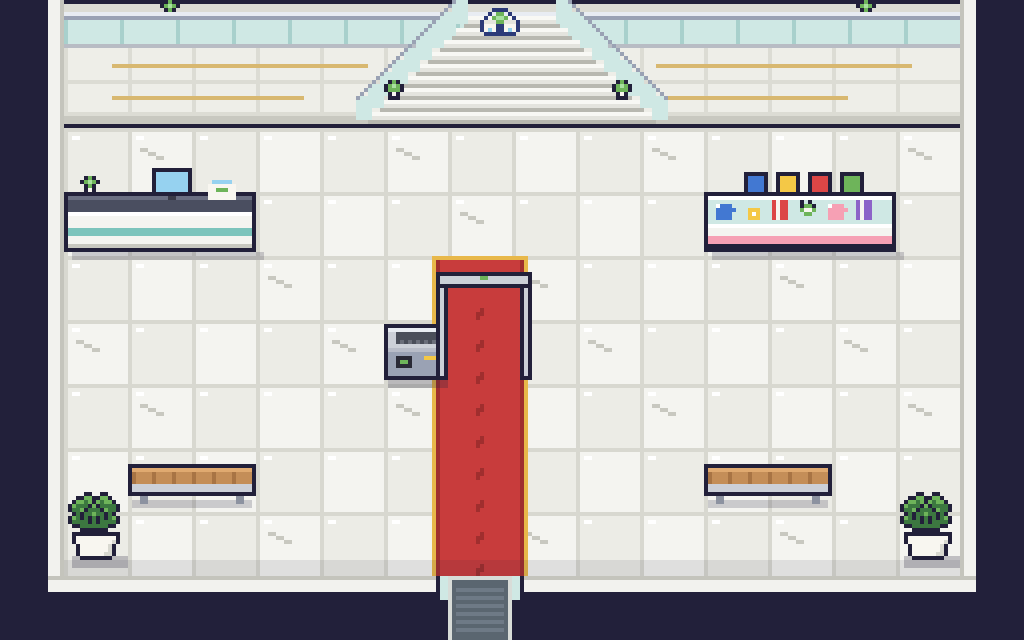
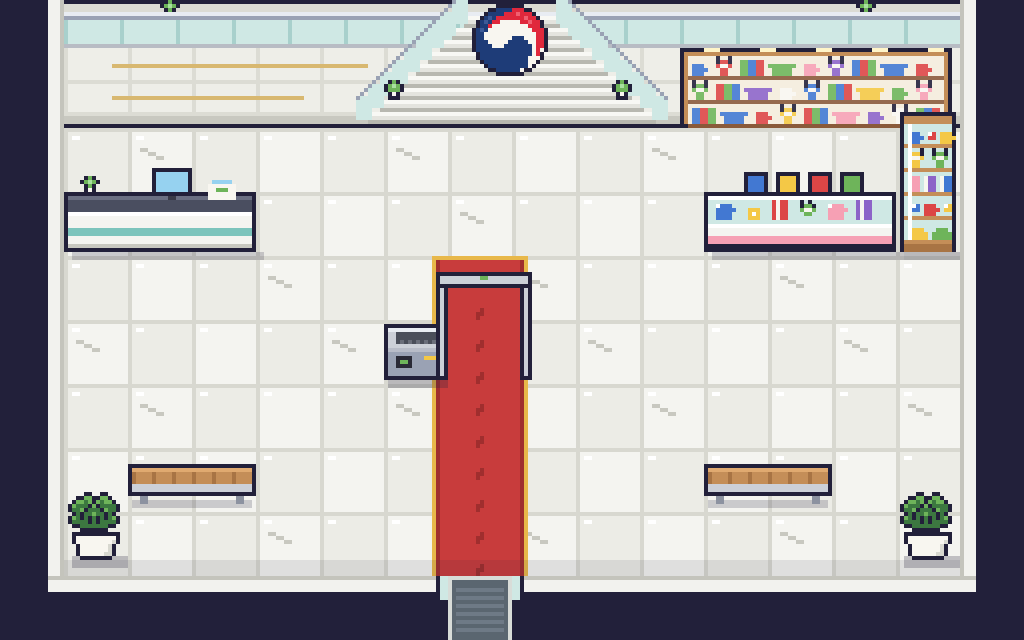
교육부 초안: 정부 상징 도트, 기념품 벽 진열장·세로 진열대 추가
Claude-Session: https://claude.ai/code/session_01R4Xdu4DQAYWSL2VUyUVs3v

Changed region(s): [[0.6562, 0.0625, 0.9375, 0.4062], [0.4375, 0.0, 0.5312, 0.125]]

diff --git a/tools/room_art.py b/tools/room_art.py
@@ -1997,7 +1997,7 @@ def moe():
     for x in range(16, 240, 16):                                          # 대리석 판 줄눈
         cv.vline(x, 12, 17, '#dcdcd4')
     cv.hline(16, 20, 224, '#dcdcd4')
-    for x0 in (24, 160):                                                  # 금색 가로 장식
+    for x0 in (24,):                                                      # 금색 가로 장식
         cv.hline(x0 + 4, 16, 64, '#d8b870'); cv.hline(x0 + 4, 24, 48, '#d8b870')
     cv.rect(16, 28, 224, 3, '#c8c8c0'); cv.hline(16, 28, 224, '#dcdcd4')
     cv.hline(16, 31, 224, K)
@@ -2023,16 +2023,56 @@ def moe():
     # 계단참 화분
     for x, y in ((96, 20), (153, 20)):
         cv.sprite(x, y, ['.kgk.', 'kgGgk', 'kgggk', '.kwk.', '.kkk.'], {'k': K, 'g': '#6eb45a', 'G': '#a8e0a0', 'w': '#f8f6f0'})
-    # 상징 마크 (책과 새싹)
-    cv.sprite(120, 2, [
-        '...kkkk...',
-        '..k.gg.k..',
-        '.k.gGGg.k.',
-        'k...gg...k',
-        'kwwwkkwwwk',
-        'kwbwkkwbwk',
-        '.kkkkkkkk.',
-    ], {'k': '#2c3a78', 'g': '#6eb45a', 'G': '#a8e0a0', 'w': '#f8f6f0', 'b': '#96d2f0'})
+    # 정부 상징 (태극 문양) — 사용자가 준 그림을 17x17 도트로 옮김, 흰 원판 위
+    cv.sprite(118, 1, [
+        '......kkkkkkk......',
+        '....kkbbbbrrrkk....',
+        '...kbbbbrrrrrrrk...',
+        '..kbbbrrrrrrrrrrk..',
+        '.kbbbrrwwwwwrrrrrk.',
+        '.kbbrwwwwwwwwwrrrk.',
+        'kbbbwwwwwwwwwwwrrrk',
+        'kbbwwwwwwwwwwwwwrrk',
+        'kbbwwwwwwwbbbwwwrrk',
+        'kbbbwwwwwbbbbbwwrrk',
+        'kbbbbwwwbbbbbbbwrrk',
+        'kbbbbbbbbbbbbbbwrwk',
+        '.kbbbbbbbbbbbbbwrk.',
+        '.kbbbbbbbbbbbbwwwk.',
+        '..kbbbbbbbbbbbwwk..',
+        '...kbbbbbbbbbbwk...',
+        '....kkbbbbbbwkk....',
+        '......kkkkkkk......',
+    ], {'k': K, 'w': '#f8f6f0', 'b': '#1e3c78', 'r': '#e0283c'})
+    cv.p(122, 4, '#3c5a98'); cv.p(121, 5, '#3c5a98'); cv.p(120, 7, '#3c5a98')     # 남색 윤기
+    cv.p(129, 3, '#f06070'); cv.p(131, 4, '#f06070'); cv.p(132, 5, '#f06070')     # 빨강 윤기
+
+    # 기념품 벽 진열장 (기념품 매대 뒤, 11~14칸 벽)
+    wx0, wx1 = 170, 238
+    cv.rect(wx0, 12, wx1 - wx0, 20, K)
+    cv.rect(wx0 + 1, 13, wx1 - wx0 - 2, 18, '#c48e58')
+    for row, sy in enumerate((14, 20, 26)):
+        cv.rect(wx0 + 2, sy, wx1 - wx0 - 4, 5, '#f4ecdc')
+        cv.hline(wx0 + 2, sy + 5, wx1 - wx0 - 4, '#8a5a3a')
+        q = 0
+        ix = wx0 + 3
+        while ix < wx1 - 6:
+            c = ['#4278d2', '#dc4646', '#f4c846', '#6eb45a', '#f6a0b4', '#8c64c8', '#f8f6f0'][(q + row * 3) % 7]
+            kind = (q + row) % 4
+            if kind == 0:      # 머그컵
+                cv.rect(ix, sy + 2, 3, 3, c); cv.p(ix + 3, sy + 3, c); ix += 6
+            elif kind == 1:    # 인형
+                cv.sprite(ix, sy, ['k..k', 'kggk', 'gwwg', '.gg.', '.gg.'], {'k': K, 'g': c, 'w': '#f8f6f0'}); ix += 6
+            elif kind == 2:    # 책 세 권
+                for b2 in range(3):
+                    cv.rect(ix + b2 * 2, sy + 1, 2, 4, ['#4278d2', '#dc4646', '#6eb45a'][(b2 + q) % 3])
+                ix += 8
+            else:              # 접은 티셔츠
+                cv.rect(ix, sy + 2, 5, 3, c); cv.rect(ix - 1, sy + 2, 1, 1, c); cv.rect(ix + 5, sy + 2, 1, 1, c); ix += 8
+            q += 1
+    cv.blend(wx0 + 2, 14, wx1 - wx0 - 4, 17, '#ffffff', 0.10)
+    for x in range(wx0 + 6, wx1 - 4, 14):                                 # 진열장 조명
+        cv.rect(x, 12, 4, 1, '#fff4c8')
 
     # ---------- 안내 데스크 (1~3, 3) ----------
     x0, y0, w = 16, 48, 48
@@ -2069,6 +2109,32 @@ def moe():
     # 매대 위 위쪽 진열 (기념품 직원 뒤)
     for q, c in enumerate(['#4278d2', '#f4c846', '#dc4646', '#6eb45a']):
         cv.box(x0 + 10 + q * 8, y0 - 5, 6, 6, c)
+
+    # 기념품 진열대: 오른쪽 (14, 2~3) 세로 유리장
+    x, y = 225, 32
+    cv.blend(x + 1, y + 31, 14, 2, K, 0.25)
+    cv.rect(x, y - 4, 14, 35, K)
+    cv.rect(x + 1, y - 3, 12, 2, '#c48e58')
+    shelf_items = [['mug', 'pin', 'mug'], ['doll', 'doll'], ['book', 'book', 'book'], ['pin', 'mug', 'pin'], ['cap', 'cap']]
+    for row, items in enumerate(shelf_items):
+        sy = y - 1 + row * 6
+        cv.rect(x + 1, sy, 12, 6, GLASS)
+        cv.hline(x + 1, sy + 5, 12, '#c48e58')
+        for q, kind in enumerate(items):
+            c = ['#4278d2', '#dc4646', '#f4c846', '#6eb45a', '#f6a0b4', '#8c64c8'][(row * 2 + q) % 6]
+            ix = x + 2 + q * (12 // len(items))
+            if kind == 'mug':
+                cv.rect(ix, sy + 2, 3, 3, c); cv.p(ix + 3, sy + 3, c)
+            elif kind == 'pin':
+                cv.rect(ix + 1, sy + 2, 2, 2, c); cv.p(ix + 1, sy + 2, '#ffffff')
+            elif kind == 'book':
+                cv.rect(ix, sy + 1, 3, 4, c); cv.vline(ix, sy + 1, 4, '#f8f6f0')
+            elif kind == 'doll':
+                cv.sprite(ix, sy, ['k..k', 'kggk', 'gwwg', '.gg.', '.gg.'], {'k': K, 'g': c, 'w': '#f8f6f0'})
+            else:
+                cv.rect(ix, sy + 3, 5, 2, c); cv.rect(ix + 1, sy + 2, 3, 1, c)
+    cv.vline(x + 2, y - 1, 29, '#ffffff')
+    cv.rect(x + 1, y + 29, 12, 2, '#a87444')
 
     # ---------- 검색대 (6,5): 엑스레이 상자 + 걸어서 지나가는 검색 문(7,5) ----------
     x, y = 96, 80

diff --git a/docs/room-drafts/README.md b/docs/room-drafts/README.md
@@ -51,9 +51,9 @@
 
 ```
 0 xxxxxxxxxxxxxxxx
-1 xWWWWWWWWWWWWWWx   벽: 유리 난간 2층 · 가운데 큰 계단 · 상징 마크 (글자 표지판 없음)
-2 xffffffffffffffx   안내 직원 (2,2)  기념품 직원 (12,2)
-3 xcccfffffffcccfx   안내 데스크 (1~3)  기념품 매대 (11~13)
+1 xWWWWWWWWWWWWWWx   벽: 유리 난간 2층 · 가운데 큰 계단 · 정부 상징 원판 · 기념품 벽 진열장(11~14)
+2 xfffffffffffffRx   안내 직원 (2,2)  기념품 직원 (12,2)  R 기념품 세로 진열대 (14,2~3)
+3 xcccfffffffcccRx   안내 데스크 (1~3)  기념품 매대 (11~13)
 4 xffffffffffffffx   손님 자리 (2,4) (12,4)
 5 xfffffGffffffffx   G 검색대 (6,5)  — (7,5)는 걸어서 지나가는 검색 문(카펫 위)
 6 xffffffffffffffx   견학 안내원 (9,6)
@@ -63,3 +63,4 @@
 ```
 
 - 배치 그림의 위치를 그대로 따름. "안내·기념품·검색대" 글자 표지판은 그리지 않음
+- 추가: 기념품 매대 뒤 벽 진열장(벽이라 원래 막힌 곳), 오른쪽 세로 진열대 (14,2)(14,3)
